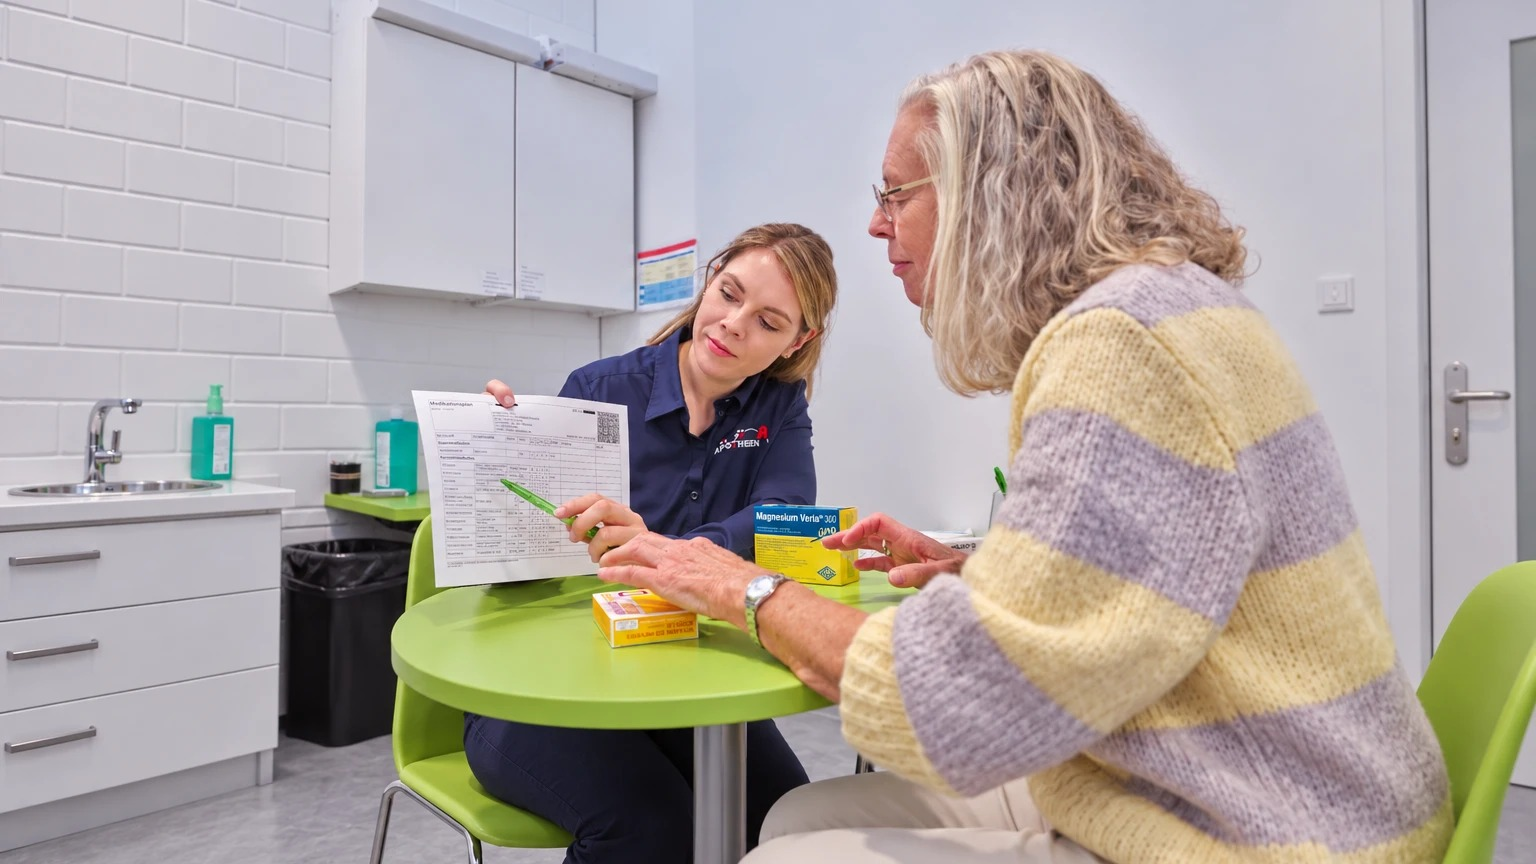
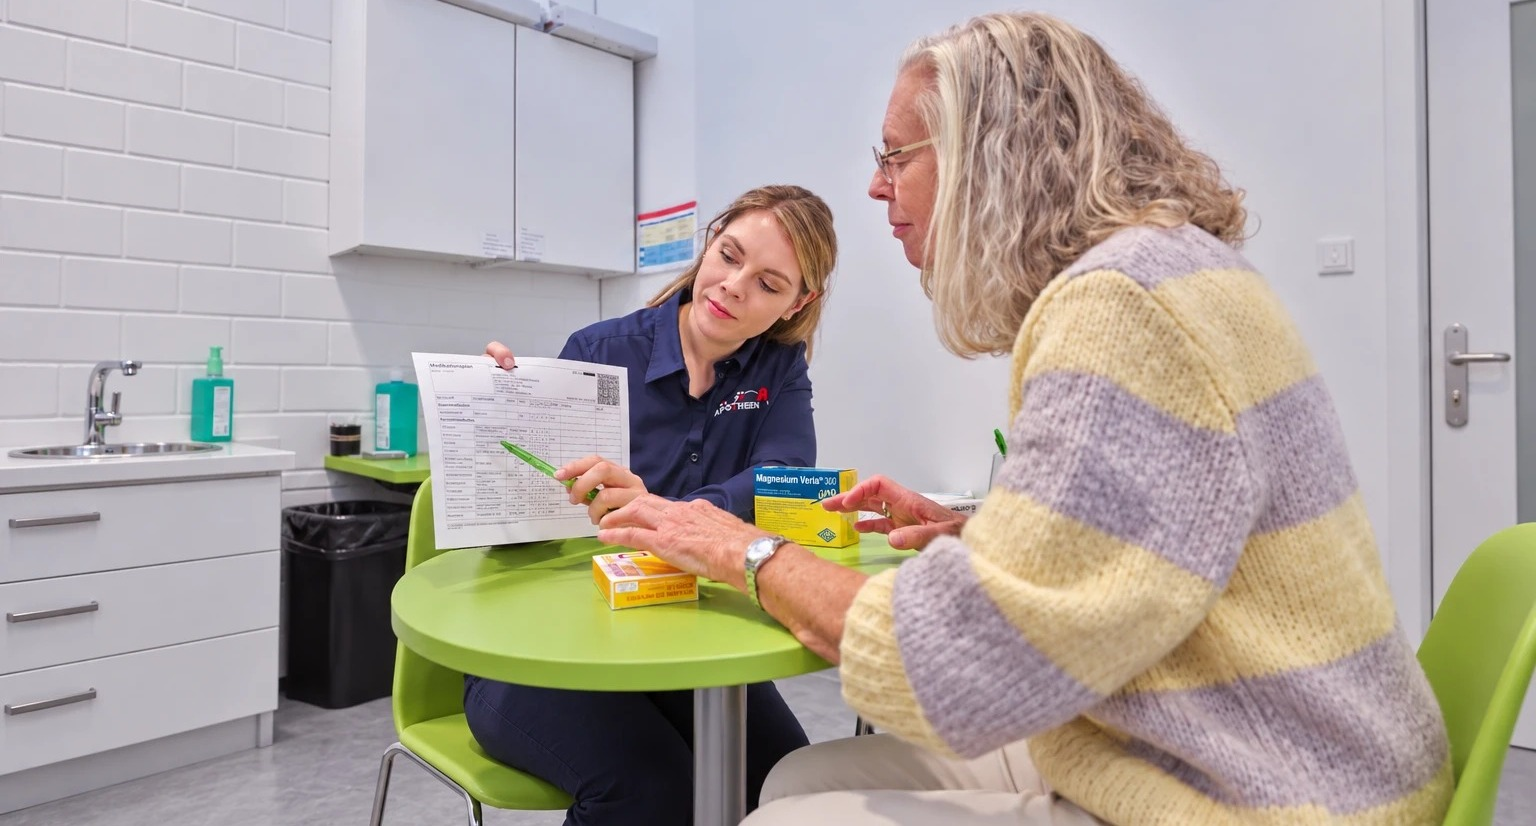
Trim hero photo top by 1cm, move card down another 1cm, shorten card
Cropped ~1cm (38px) off the top of the hero photo and adjusted the
banner's aspect-ratio to match exactly (no further CSS-level crop).
Moved the overlaid card down another ~1cm (top offset now 48% + 95px,
was + 57px). Removed hero-sub's 640px max-width so the intro
paragraph spans the card's full width, wrapping to fewer lines and
shortening the card by about 57px.

Claude-Session: https://claude.ai/code/session_01XLhHeWYtKyT8mPMe2s9Kra

diff --git a/css/style.css b/css/style.css
@@ -277,7 +277,7 @@ img { max-width: 100%; display: block; }
 }
 .hero-media {
   width: 100%;
-  aspect-ratio: 16 / 9;
+  aspect-ratio: 1.8596 / 1;
   overflow: hidden;
 }
 .hero-photo {
@@ -291,7 +291,7 @@ img { max-width: 100%; display: block; }
   position: absolute;
   left: 50%;
   transform: translateX(-50%);
-  top: calc(48% + 57px);
+  top: calc(48% + 95px);
   width: 100%;
 }
 .hero-copy {
@@ -300,7 +300,7 @@ img { max-width: 100%; display: block; }
   padding: 32px clamp(24px, 4vw, 48px);
   box-shadow: 0 30px 60px -14px rgba(44, 46, 43, .25);
 }
-.hero-sub { font-size: 1.12rem; max-width: 640px; }
+.hero-sub { font-size: 1.12rem; }
 .hero-actions { display: flex; flex-wrap: wrap; gap: 16px; margin: 28px 0 24px; }
 .hero-trust {
   list-style: none;
